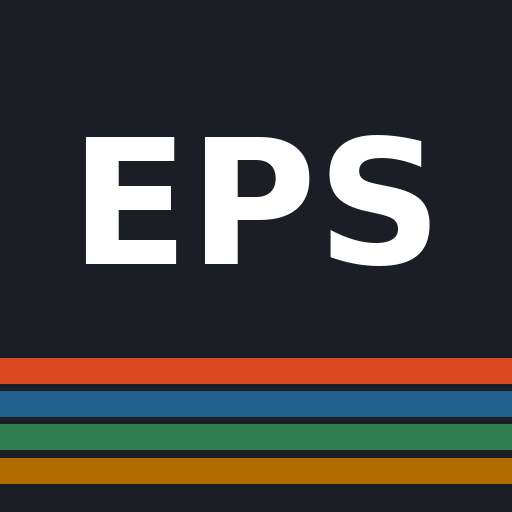
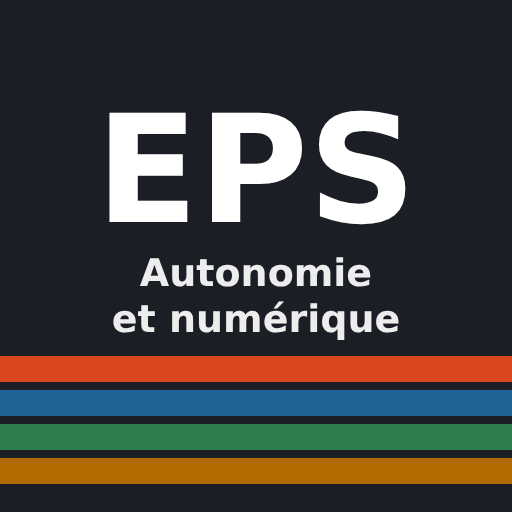
Icône : ajout « Autonomie et numérique » sous EPS
Claude-Session: https://claude.ai/code/session_01YLfZE8Gwrf9gx3qaq79dN3

Changed region(s): [[0.1562, 0.2188, 0.8438, 0.5625], [0.0, 0.5938, 1.0, 0.75]]

diff --git a/sw.js b/sw.js
@@ -1,7 +1,7 @@
 // EPS – Mes applications : service worker de la racine.
 // Il ne gère que la page d'accueil, le bouton Accueil partagé et Relais Vitesse (qui n'a pas de service worker propre).
 // Acrosport, Escalade et OrienRun gardent leur propre service worker : leurs requêtes ne sont pas touchées ici.
-const CORE = "eps-core-v2";
+const CORE = "eps-core-v3";
 const CORE_FILES = ["/", "/index.html", "/manifest.webmanifest", "/icon-192.png", "/icon-512.png", "/eps-home.js", "/relais/", "/relais/index.html"];
 // Bibliothèques externes utilisées par Relais Vitesse (lecture Excel, polices)
 const EXT = /^https:\/\/(cdnjs\.cloudflare\.com|cdn\.jsdelivr\.net|fonts\.googleapis\.com|fonts\.gstatic\.com)\//;
